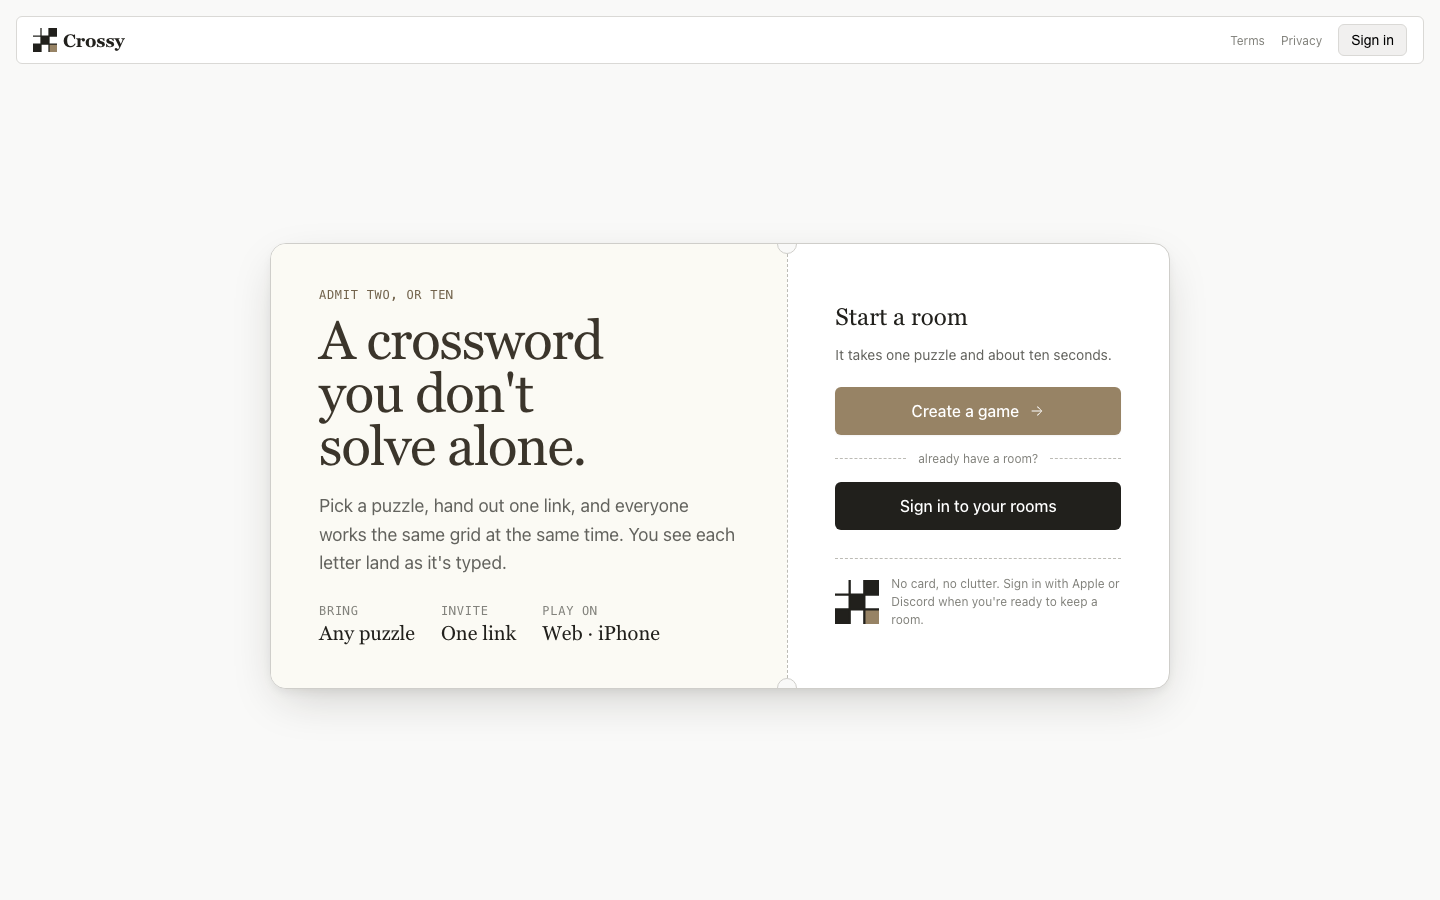
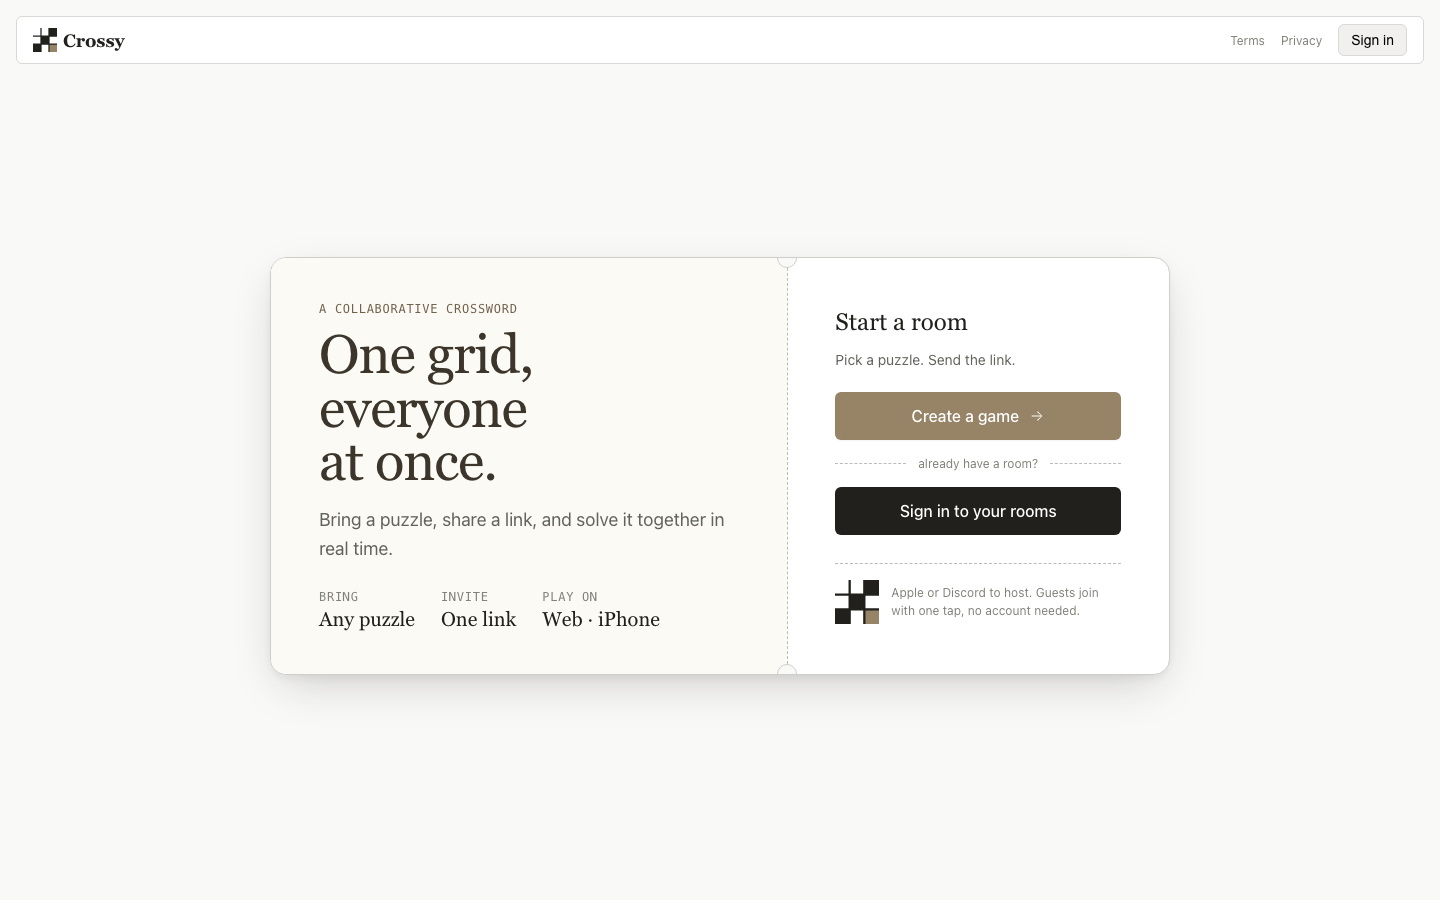
design(web): de-slop the ticket landing copy (owner: all slop)
Same layout, honest words. Cuts the cutesy eyebrow, the filler "about
ten seconds", the "no card, no clutter" marketing alliteration, and the
purple "each letter land" line. Fixes a factual tell too: hosting is
full-accounts-only, so the copy now states the real asymmetry (sign in
to host; guests join with one tap, no account) instead of implying you
start without an account.

Changed region(s): [[0.2188, 0.3111, 0.5, 0.7156], [0.5625, 0.3422, 0.7812, 0.6844], [0.1875, 0.7467, 0.8125, 0.7778]]

diff --git a/design/arrival-arc/c-ticket.landing.html b/design/arrival-arc/c-ticket.landing.html
@@ -343,11 +343,10 @@
         <span class="notch bottom"></span>
 
         <div class="stub">
-          <span class="eyebrow">Admit two, or ten</span>
-          <h1>A crossword<br />you don't<br />solve alone.</h1>
+          <span class="eyebrow">A collaborative crossword</span>
+          <h1>One grid,<br />everyone<br />at once.</h1>
           <p>
-            Pick a puzzle, hand out one link, and everyone works the same grid
-            at the same time. You see each letter land as it's typed.
+            Bring a puzzle, share a link, and solve it together in real time.
           </p>
           <div class="facts">
             <div class="fact">
@@ -367,7 +366,7 @@
 
         <div class="tray">
           <div class="title">Start a room</div>
-          <p class="sub">It takes one puzzle and about ten seconds.</p>
+          <p class="sub">Pick a puzzle. Send the link.</p>
           <button class="btn btn-primary">
             Create a game
             <svg width="16" height="16" viewBox="0 0 15 15" fill="none">
@@ -394,8 +393,8 @@
               />
             </svg>
             <span class="cap">
-              No card, no clutter. Sign in with Apple or Discord when you're
-              ready to keep a room.
+              Apple or Discord to host. Guests join with one tap, no account
+              needed.
             </span>
           </div>
         </div>